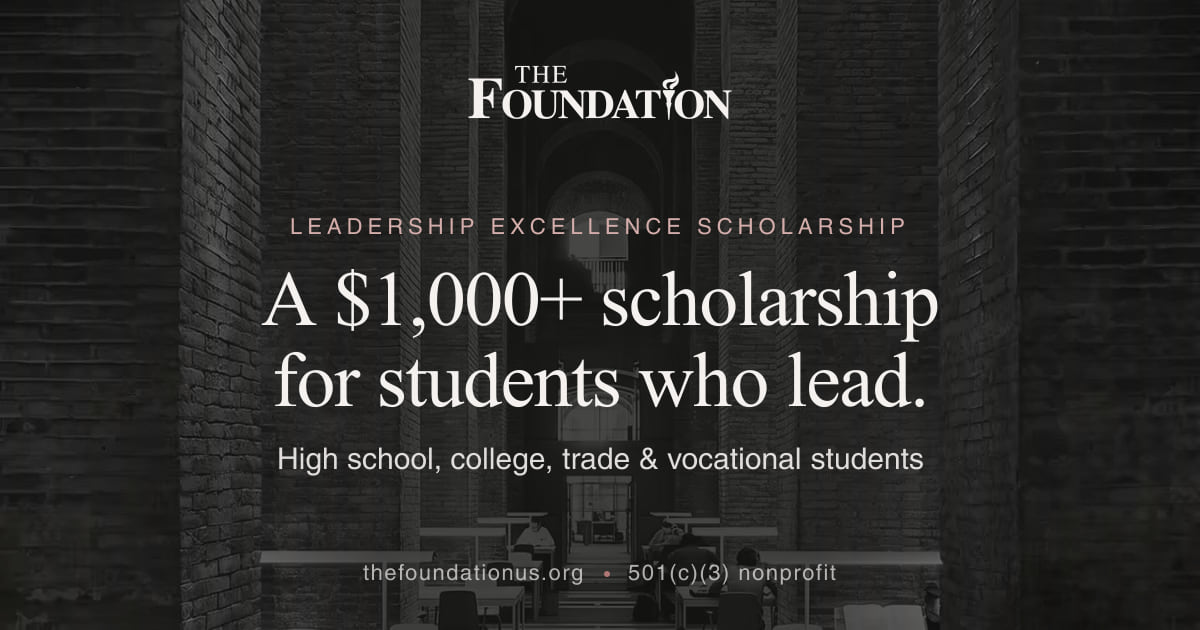
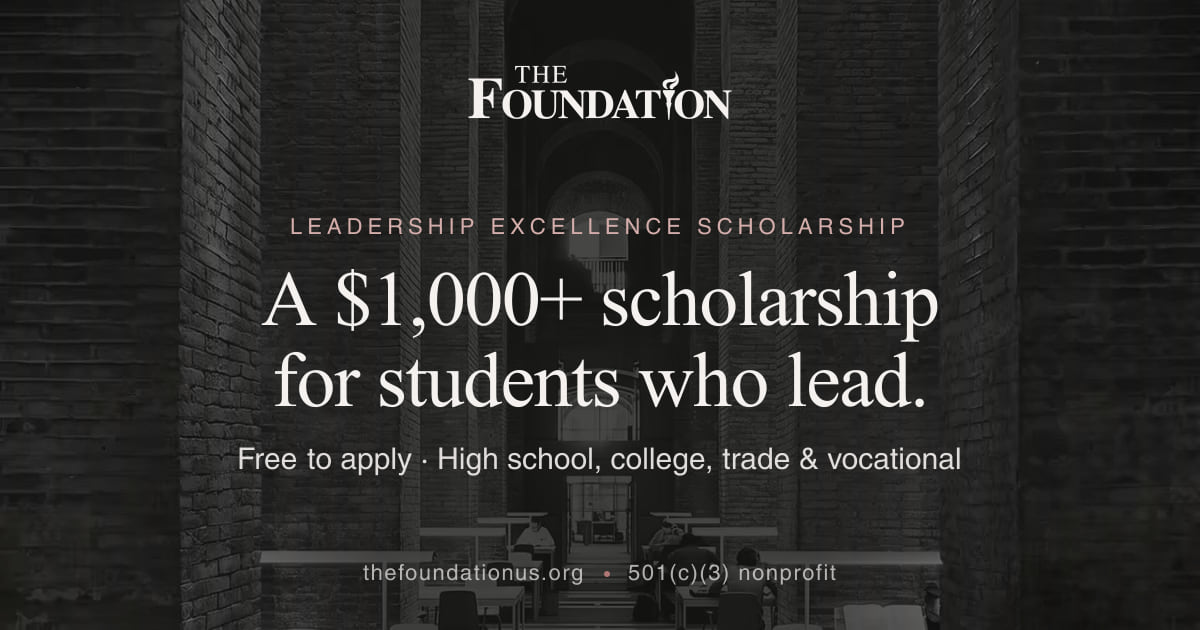
Say "Free to apply" on the share card and in share descriptions
The founders confirmed there is no application fee. "Free to apply" is the
strongest answer to the scam check parents run on scholarship links, so it
now leads the card's subline and the home, Scholarships and Apply
descriptions. SHARE_VERSION is bumped so platforms that cache previews fetch
the new card.

Changed region(s): [[0.185, 0.6937, 0.8017, 0.754]]

diff --git a/lib/seo.ts b/lib/seo.ts
@@ -13,11 +13,11 @@ export const SITE_NAME = "The Foundation";
 
 // Bump SHARE_VERSION whenever a card image changes so platforms that cache
 // previews (Facebook, LinkedIn, iMessage) fetch the new one.
-const SHARE_VERSION = "2026-11-05";
+const SHARE_VERSION = "2026-11-05b";
 
 const SHARE_CARDS = {
   default:
-    "The Foundation: a $1,000+ scholarship for students who lead. High school, college, trade and vocational students. 501(c)(3) nonprofit.",
+    "The Foundation: a $1,000+ scholarship for students who lead. Free to apply. High school, college, trade and vocational students. 501(c)(3) nonprofit.",
   donate:
     "Donate to The Foundation: invest in students who lead. Gifts support the $1,000+ Leadership Excellence Scholarship. 501(c)(3) nonprofit, EIN 42-3732209.",
 } as const;

diff --git a/app/scholarships/page.tsx b/app/scholarships/page.tsx
@@ -9,7 +9,7 @@ export const metadata: Metadata = pageMetadata({
   title: "Scholarships | The Foundation",
   shareTitle: "$1,000+ Leadership Excellence Scholarship | The Foundation",
   description:
-    "Made an impact at school, in your community, or on your own? High school juniors and seniors and college, trade, and vocational students can apply.",
+    "Made an impact at school or in your community? It's free to apply. Open to high school juniors and seniors and college, trade, and vocational students.",
 });
 
 const objectives = [

diff --git a/app/layout.tsx b/app/layout.tsx
@@ -32,7 +32,7 @@ export const metadata: Metadata = {
     title: "The Foundation | Educating our future.",
     shareTitle: "$1,000+ Scholarship for Students Who Lead | The Foundation",
     description:
-      "For U.S. high school juniors and seniors and college, trade, and vocational students. Reviewed every quarter. A 501(c)(3) nonprofit.",
+      "Free to apply. For U.S. high school juniors and seniors and college, trade, and vocational students. Reviewed every quarter. A 501(c)(3) nonprofit.",
   }),
 };
 

diff --git a/app/apply/page.tsx b/app/apply/page.tsx
@@ -7,7 +7,7 @@ export const metadata: Metadata = pageMetadata({
   title: "Apply | The Foundation",
   shareTitle: "Apply for the $1,000+ Scholarship | The Foundation",
   description:
-    "Tell us about up to three times you led something and name one person who can confirm it. About 10 minutes online.",
+    "Free to apply, about 10 minutes online. Tell us about up to three times you led something and name one person who can confirm it.",
 });
 
 export default function ApplyPage() {
